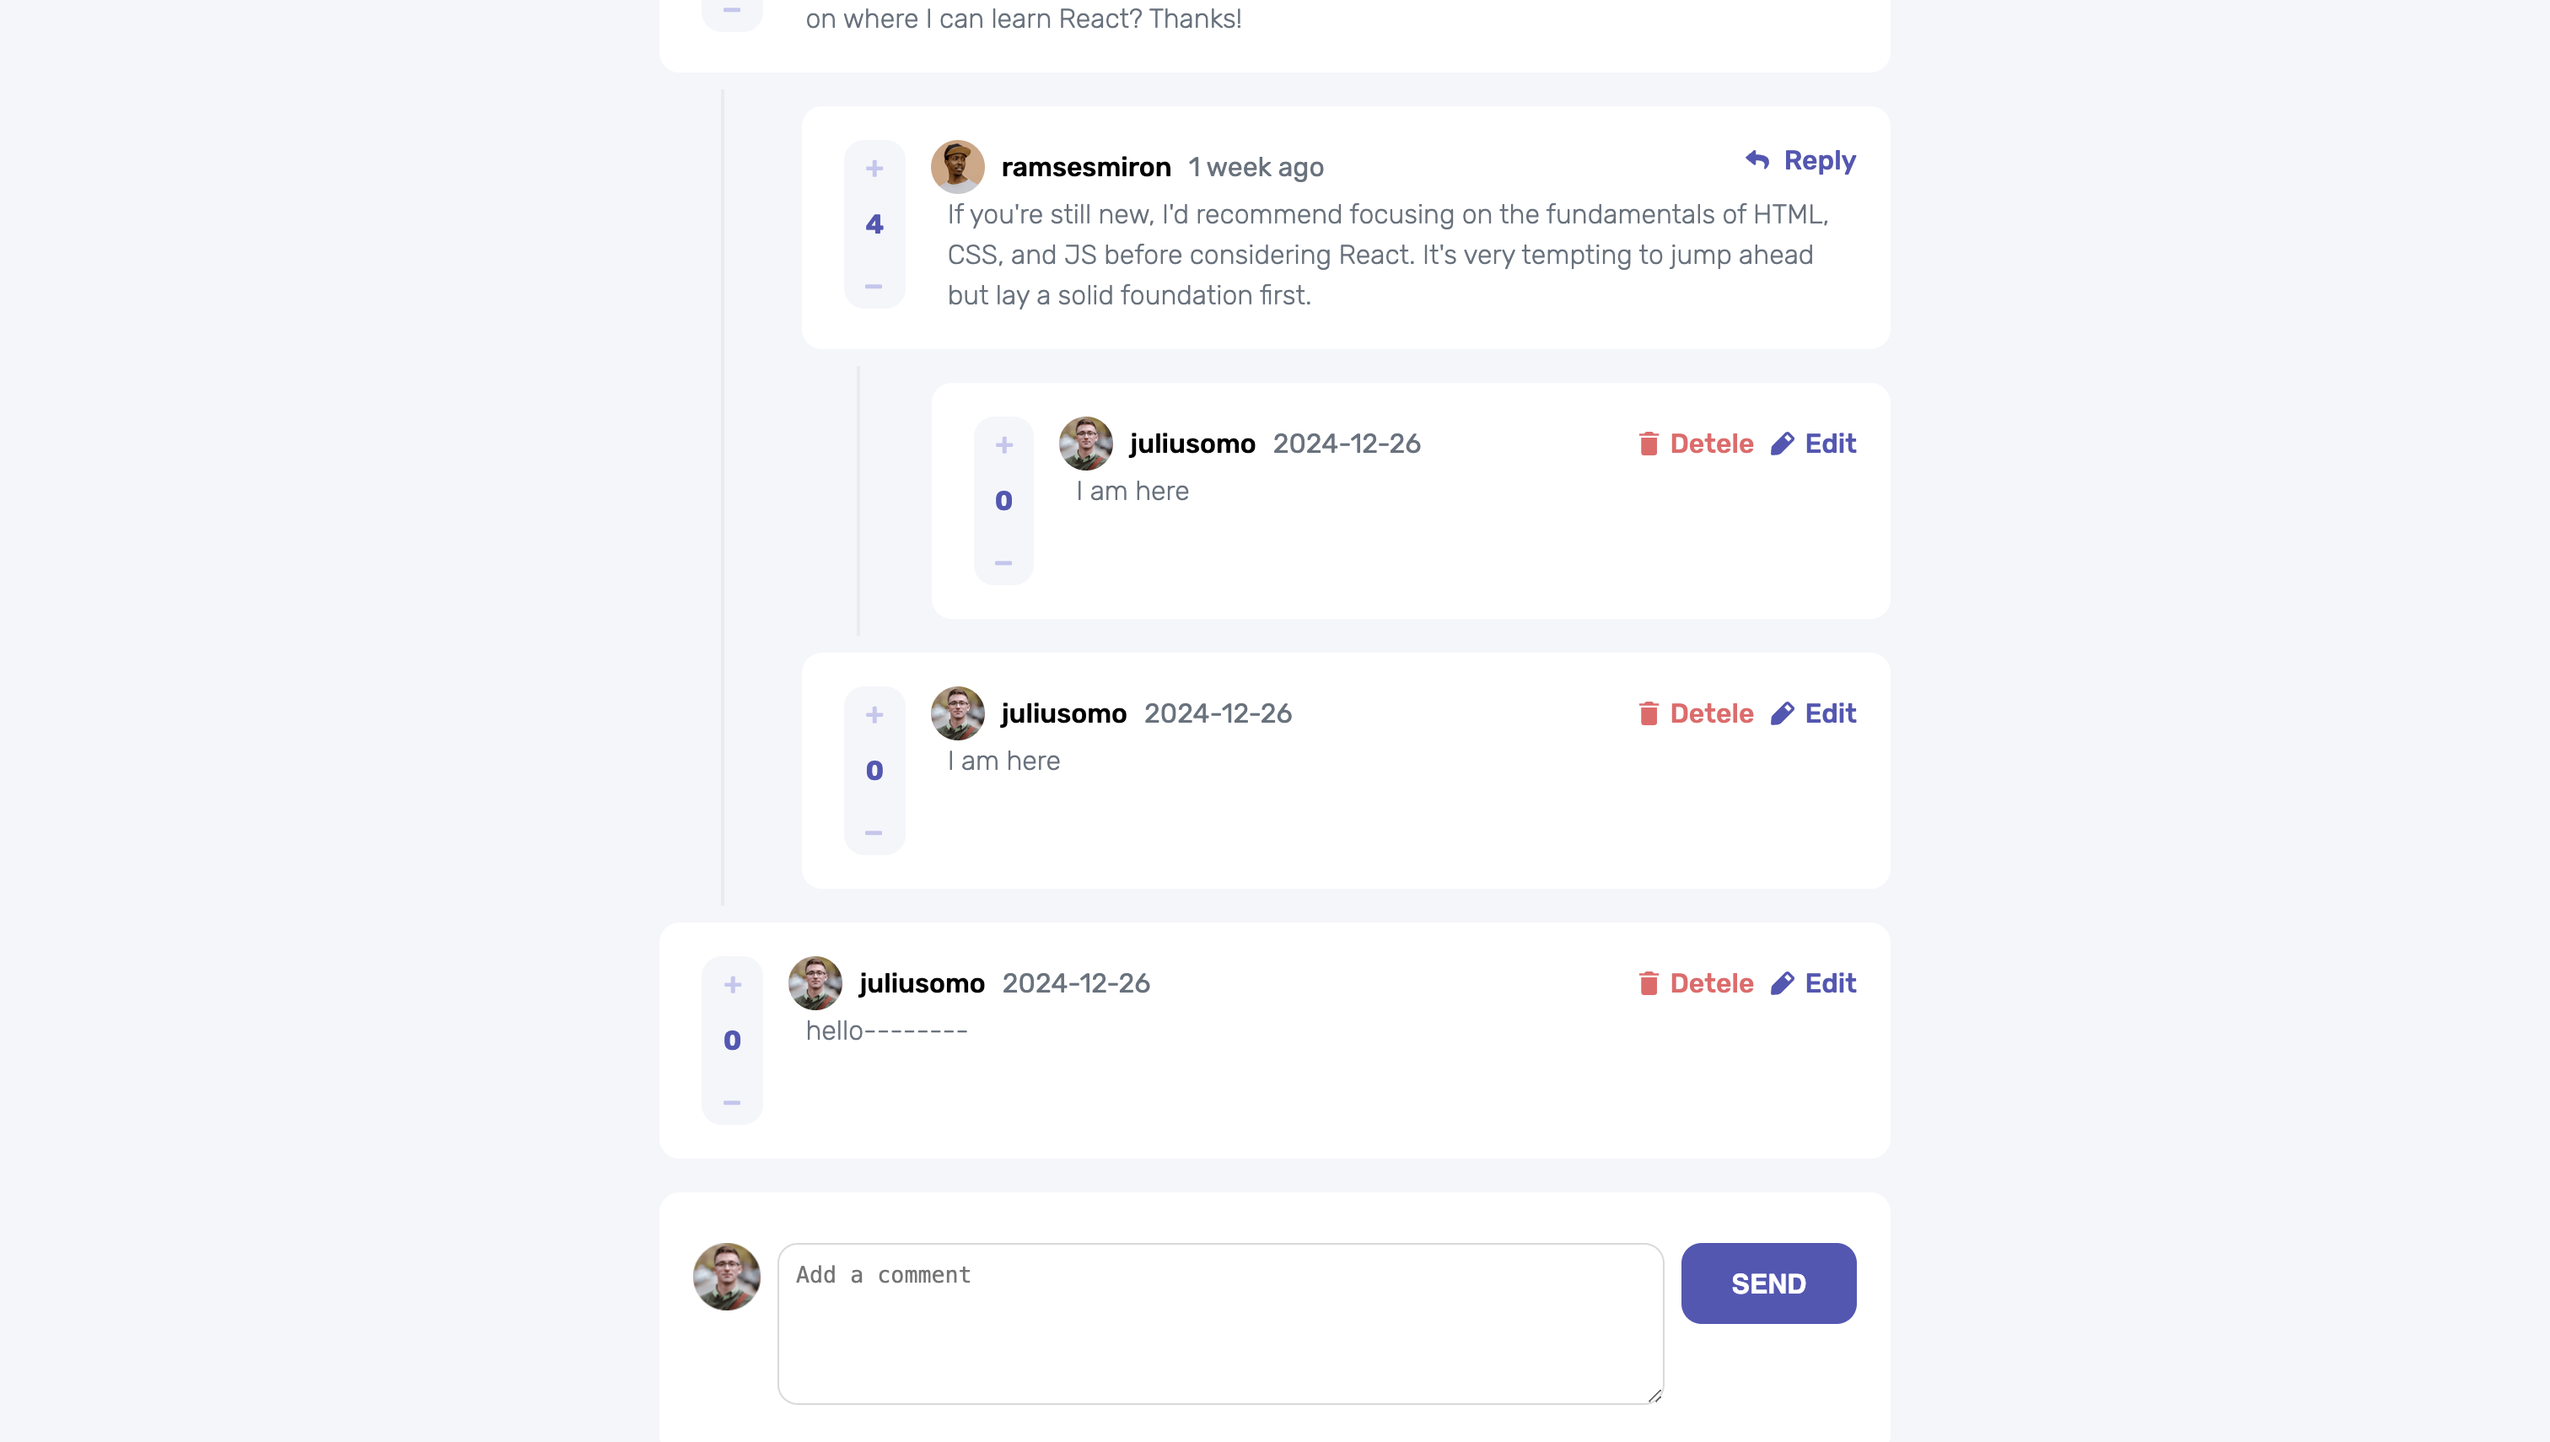
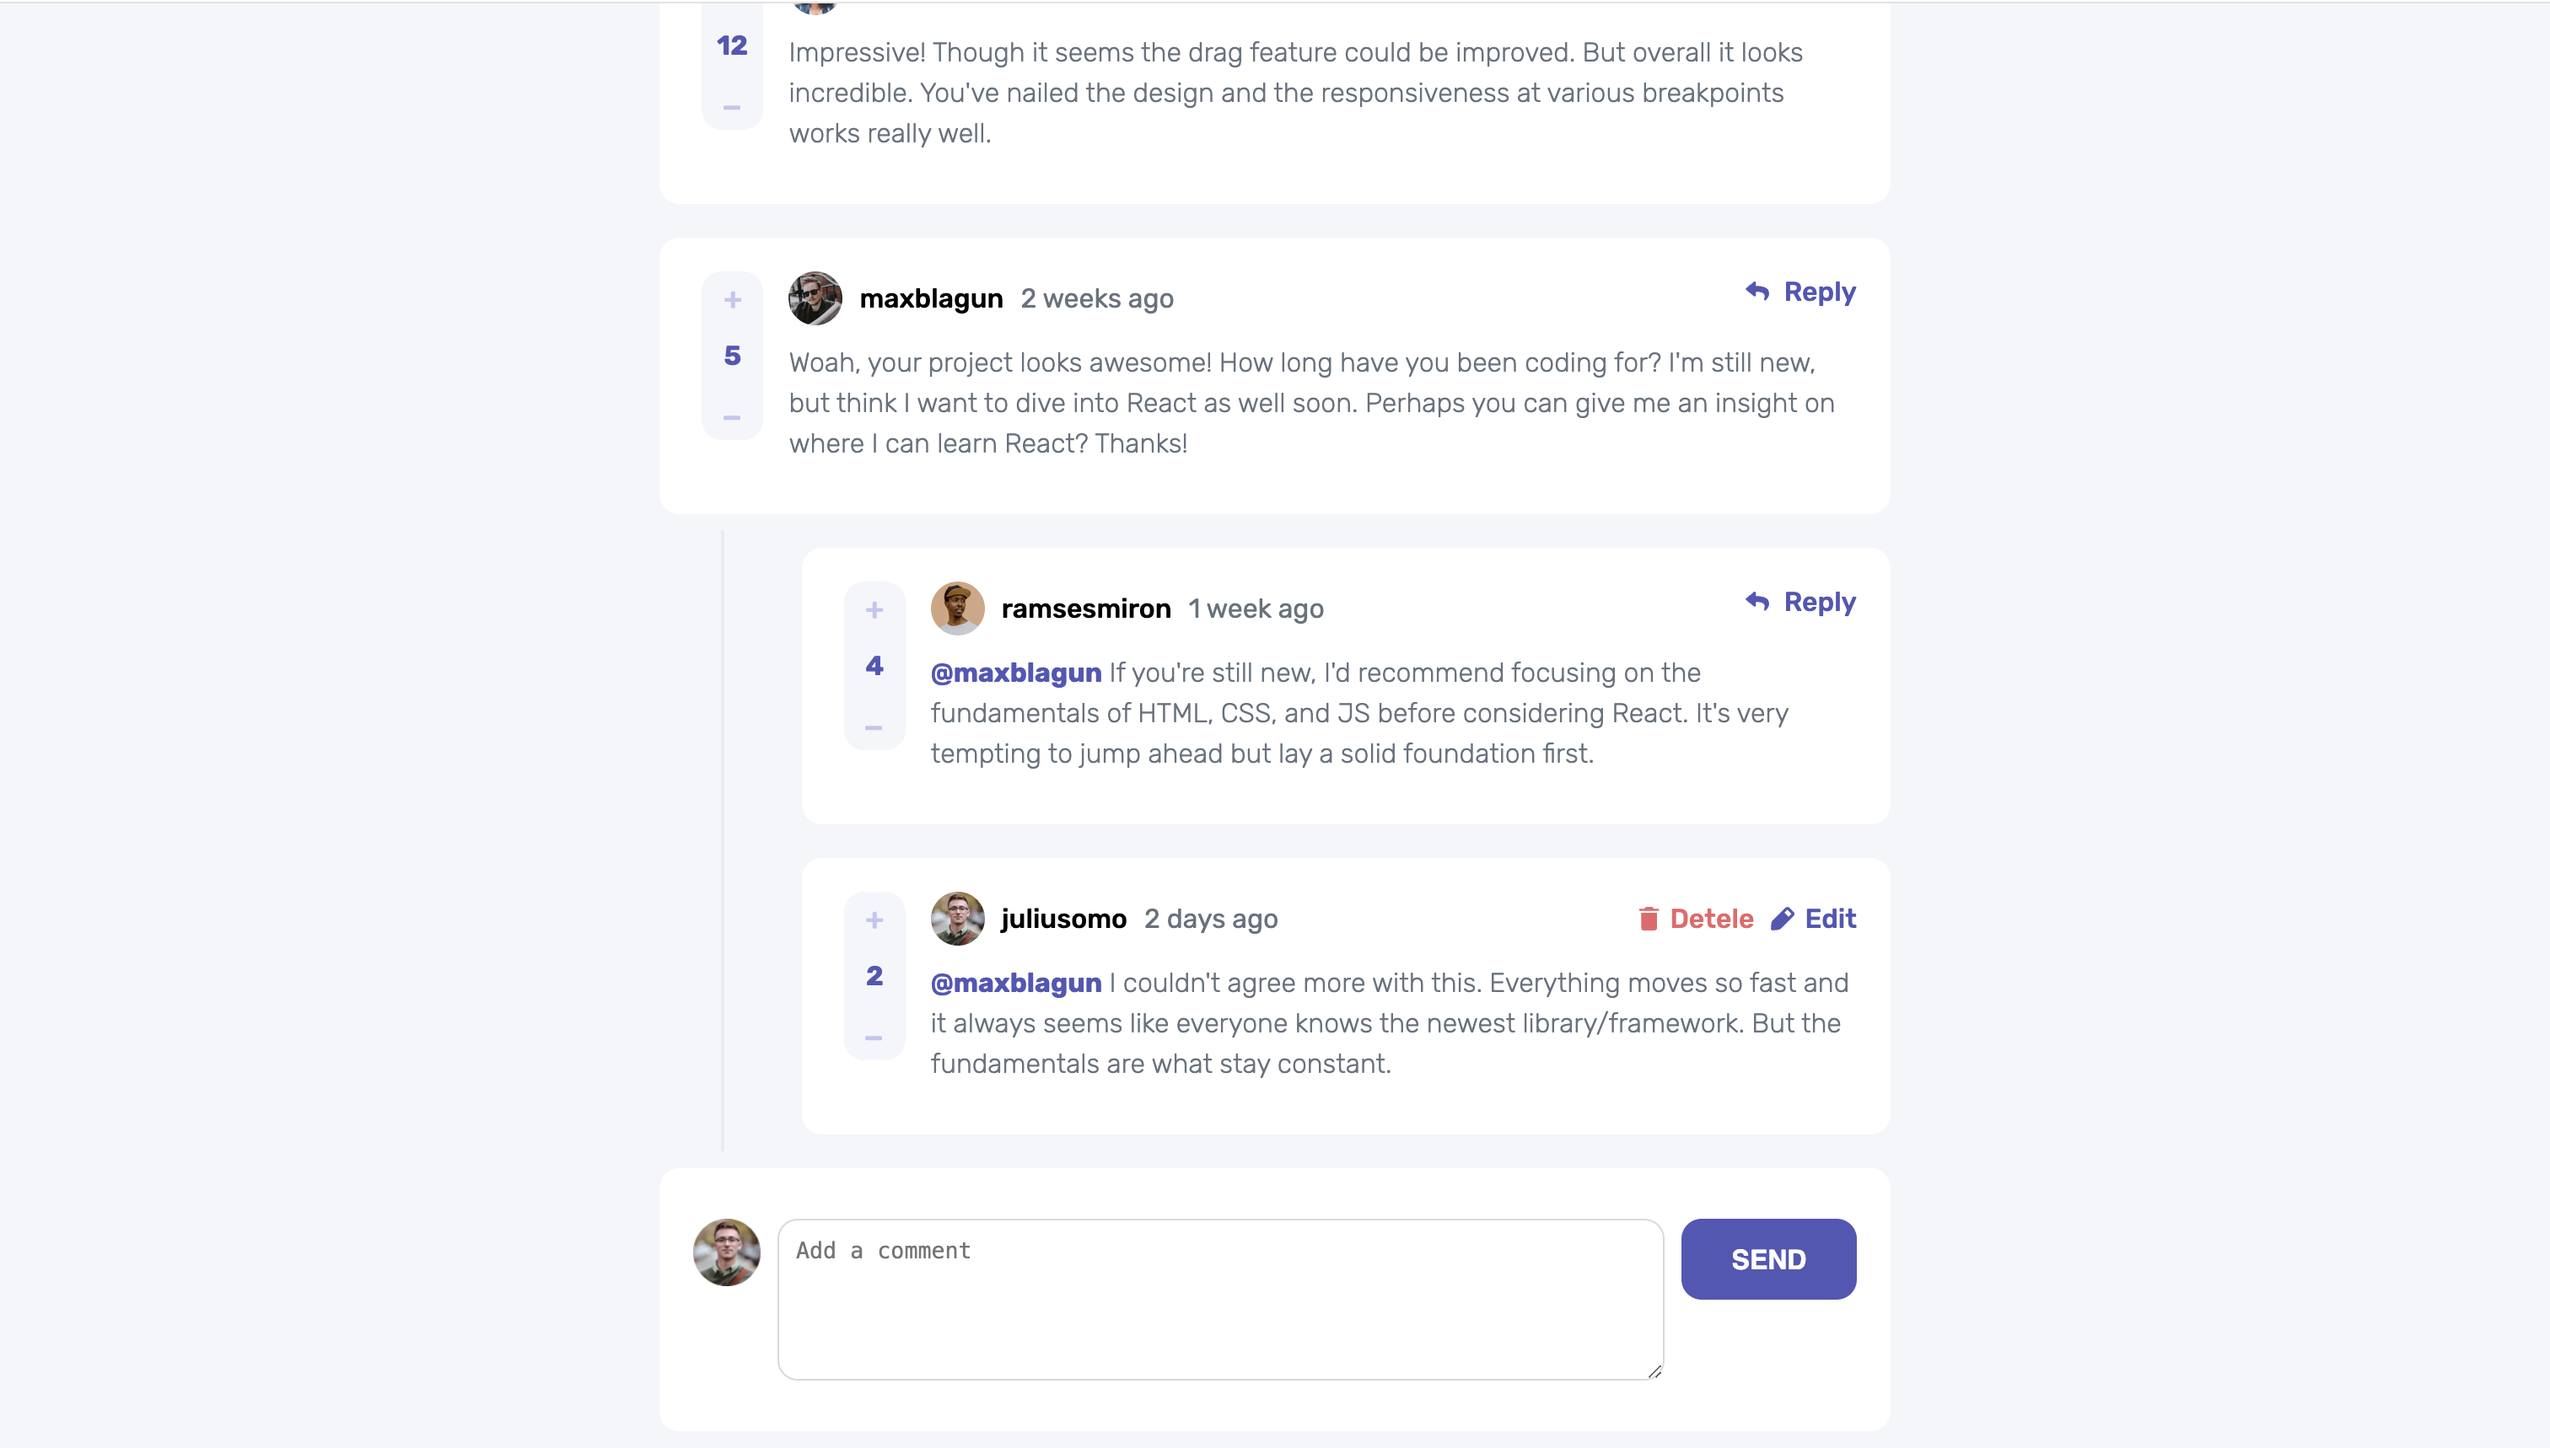
update comment

diff --git a/interactive-comments/src/components/Comment.js b/interactive-comments/src/components/Comment.js
@@ -49,6 +49,19 @@ function Comment({ id, content, createdAt, score, user, replies }) {
     updateScoreById(id, -1, currentUser.username);
     console.log("Minus score to comment with id:", id);
   };
+  const formatContent = (content) => {
+    const parts = content.split(/(@\w+)/g);
+    return parts.map((part, index) => {
+      if (part.startsWith("@")) {
+        return (
+          <span key={index} className="mention">
+            {part}
+          </span>
+        );
+      }
+      return part;
+    });
+  };
   return (
     <>
       <div className="comment">
@@ -96,7 +109,7 @@ function Comment({ id, content, createdAt, score, user, replies }) {
               onChange={(e) => setEditedContent(e.target.value)}
             />
           ) : (
-            <div className="commentText">{content}</div>
+            <div className="commentText">{formatContent(content)}</div>
           )}
           {isEditing && (
             <button
@@ -110,7 +123,7 @@ function Comment({ id, content, createdAt, score, user, replies }) {
         </div>
       </div>
 
-      {replyId === id && <MyCommentBox id={id} />}
+      {replyId === id && <MyCommentBox id={id} user={user.username} />}
       {showConfirmDialog && (
         <ConfirmDialog onConfirm={confirmDelete} onCancel={cancelDelete} />
       )}

diff --git a/interactive-comments/src/components/MyCommentBox.js b/interactive-comments/src/components/MyCommentBox.js
@@ -5,10 +5,9 @@ import "../styles/styles.css";
 import { useContext } from "react";
 import { DataContext } from "../DataContext";
 
-function MyCommentBox({ id }) {
-  const [replyContent, setReplyContent] = useState("");
+function MyCommentBox({ id, user }) {
+  const [replyContent, setReplyContent] = useState(user ? `@${user}` : "");
   const { addReply } = useContext(DataContext);
-
   const handleSubmit = (e) => {
     e.preventDefault();
     if (replyContent.trim()) {
@@ -34,7 +33,7 @@ function MyCommentBox({ id }) {
       <form onSubmit={handleSubmit}>
         <img src="/avatars/image-juliusomo.png" alt="myAvatar" />
         <textarea
-          placeholder={`Add a comment`}
+          placeholder={user ? `@${user}` : "Add a comment"}
           value={replyContent}
           onChange={(e) => setReplyContent(e.target.value)}
         ></textarea>

diff --git a/interactive-comments/src/styles/styles.css b/interactive-comments/src/styles/styles.css
@@ -46,7 +46,10 @@
   color: #5357b6;
   font: 700 16px "Rubik", sans-serif;
 }
-
+.mention {
+  color: #5357b6;
+  font: 700 16px "Rubik", sans-serif;
+}
 /* basicInfo */
 .basicInfo {
   display: flex;
@@ -89,7 +92,7 @@
   font: 300 16px "Rubik", sans-serif;
   color: #67727e;
   text-align: left;
-  margin: 0 10px;
+  margin: 10px 0px;
   line-height: 24px;
 }
 

diff --git a/interactive-comments/README.md b/interactive-comments/README.md
@@ -11,10 +11,7 @@ This is a solution to the [Interactive comments section challenge on Frontend Me
 - [My process](#my-process)
   - [Built with](#built-with)
   - [What I learned](#what-i-learned)
-  - [Continued development](#continued-development)
-  - [Useful resources](#useful-resources)
 - [Author](#author)
-- [Acknowledgments](#acknowledgments)
 
 ## Overview
 
@@ -31,12 +28,11 @@ Users should be able to:
 
 ### Screenshot
 
-![](./screenShot.jpg)
+![](./screenShot.png)
 
 ### Links
 
-- Solution URL: [Add solution URL here](https://your-solution-url.com)
-- Live Site URL: [Add live site URL here](https://your-live-site-url.com)
+- Live Site URL: [Add live site URL here](https://frontend-mentor-qcjr.vercel.app/)
 
 ## My process
 
@@ -46,11 +42,10 @@ Users should be able to:
 
 ### What I learned
 
-The orders of components for mobile and laptop view are very different. At first, I thought maybe write two different files for different layout, but as functions added in, it became difficult and unnecessary. So finally, I just used order, relative and absolute.
+The component order for mobile and laptop views was quite different. Initially, I considered creating two separate files for the layouts, but as more functions were added, this approach became complex and unnecessary. In the end, I managed the layout differences using CSS properties like order, relative, and absolute.
 
-The other thing I learned is how to write recursive JS, dealing with nested comments.
+Another key takeaway was learning how to write recursive JavaScript functions to handle nested comments effectively.
 
 ## Author
 
-- Website - [Add your name here](https://www.your-site.com)
-- Frontend Mentor - [@yourusername](https://www.frontendmentor.io/profile/ZoeLong98)
+- Frontend Mentor - [@Zoe](https://www.frontendmentor.io/profile/ZoeLong98)
